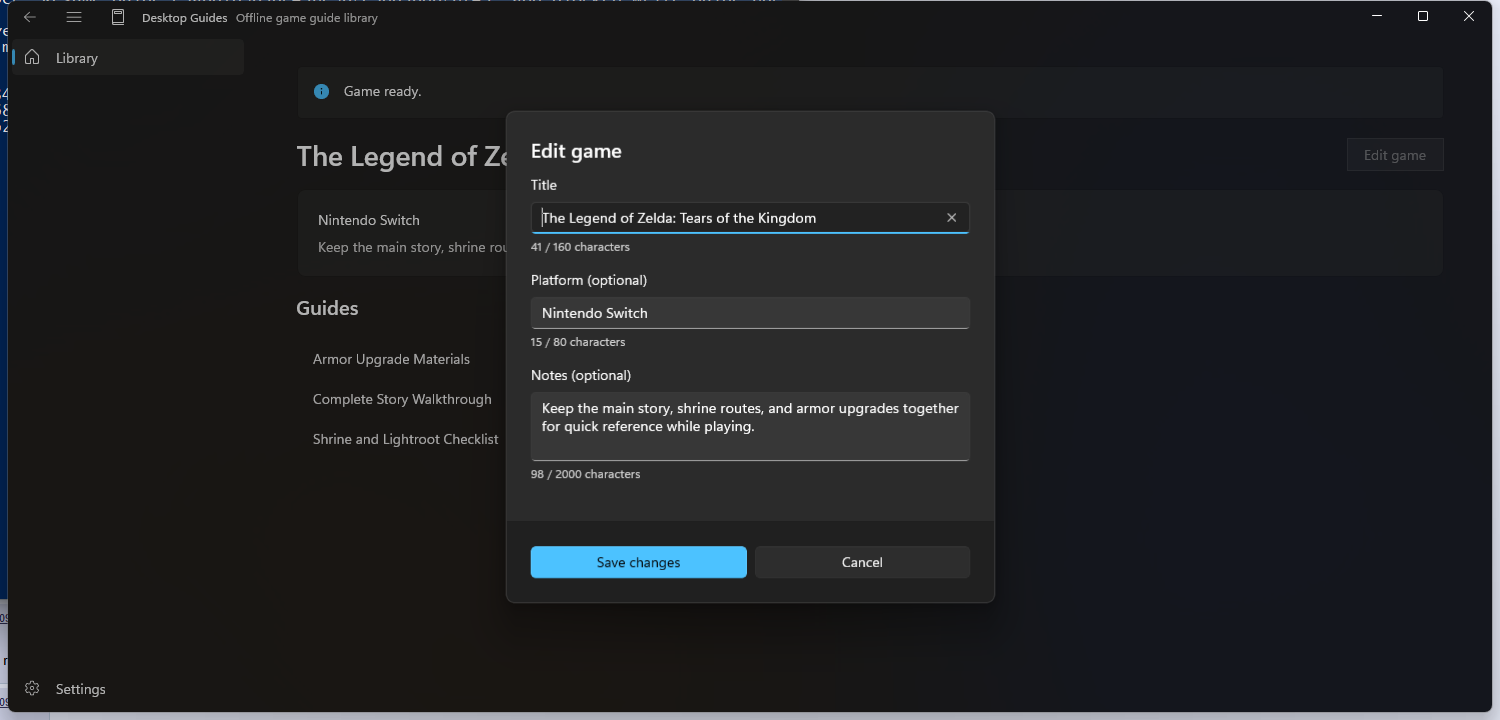
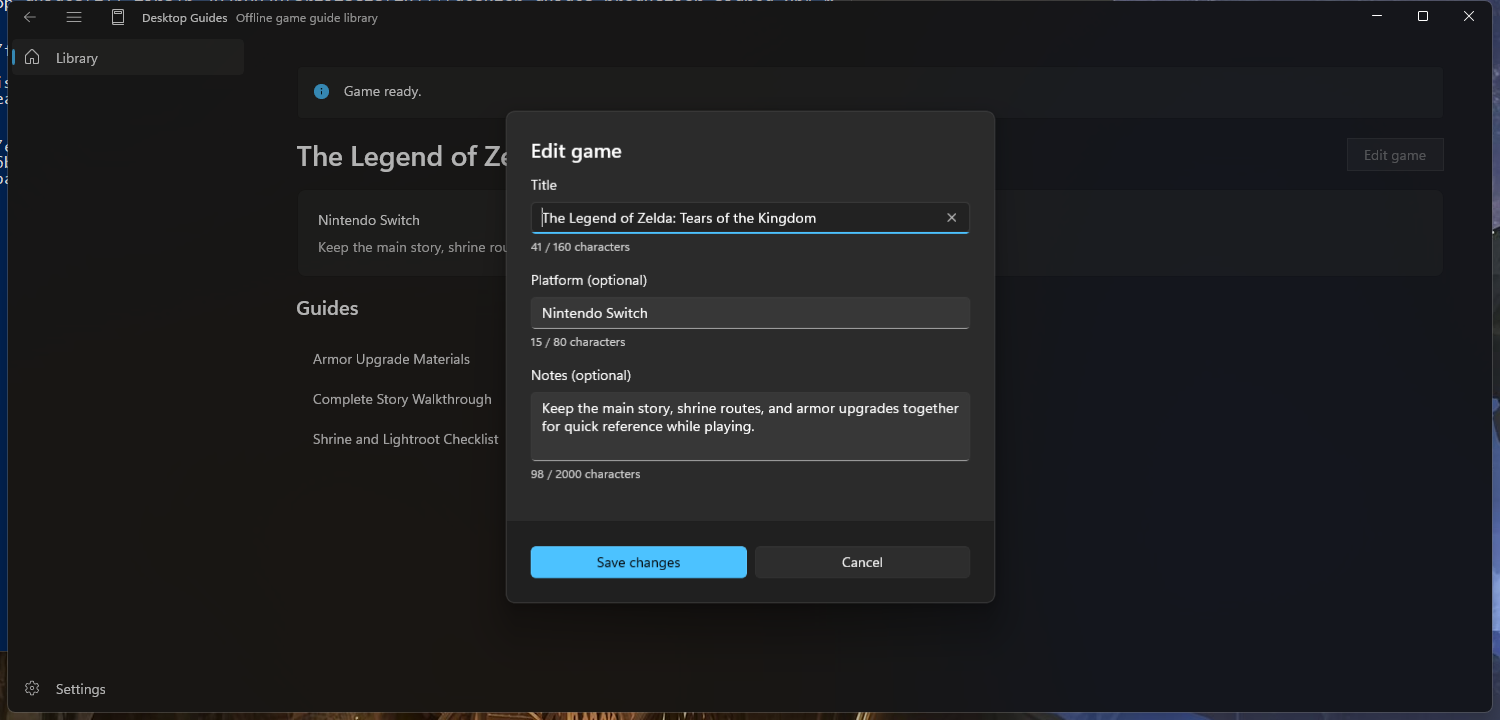
docs(p1): record material checks scoped to app code
- Refresh T11.4 evidence and screenshots from the installed run of eec9782
- Update package hashes, the harness check count, and the Acrylic
  wording in results.md and the design-language plan

Changed region(s): [[0.0, 0.0, 1.0, 1.0]]

diff --git a/docs/p1/results.md b/docs/p1/results.md
@@ -1135,24 +1135,29 @@ harness; the runs below kept every `Personalize` value. With real translucency,
 Thin Acrylic in light theme over a dark window measured 2.4:1 for secondary
 text and 3.0:1 for body text, so Acrylic now uses Base acrylic.
 
-From a snapshot of `fb3a393` on the same host, with transparency
+From a snapshot of `eec9782` on the same host, with transparency
 effects on: locked restores, 73/73 Core tests, 98/98 Infrastructure tests,
 and all nine PowerShell harness checks passed, and Release packages built for
 x64 and ARM64. The x64 package SHA-256 was
[2 lines of base64/hex data omitted]
 the ARM64 package SHA-256 was
[2 lines of base64/hex data omitted]
 The full signed-install regression passed. It ran the system, light, and dark
 design-language modes and six material passes: light and dark × Solid,
 Acrylic, and Mica, plus a switch-and-relaunch check. A strip across the
 pane/content boundary had a channel range of 0 for Solid, so no seam was
 visible. Mica showed the wallpaper tint (light 249/241/235 and dark 35/31/28,
-against Solid 243 and 32). With a dark console window behind the app, Acrylic
-measured 214 in light and 42 in dark, against Solid 243 and 32 (threshold 4).
+against Solid 243 and 32). Acrylic measured 214 in light and 42 in dark. These
+checks cover the app code only: Acrylic fails only if it repeats the Solid
+fill within one level on every channel, which is what one of our layers
+covering the backdrop would show. Mica is not checked this way, because with
+transparency off Windows draws it in the Solid fill color. How Windows tints
+either material is recorded, not asserted.
 Light Acrylic text measured 5.46:1 for secondary text and 12.34:1 for body
-text. The Acrylic edit-game command band showed the in-app acrylic noise
-(channel range 3, Solid 0); the check accepts that noise or the fallback
-color, because live in-app acrylic takes its tint from the content behind it.
+text. A 160×4 strip in the Acrylic edit-game command band showed the in-app
+acrylic noise (channel range 4, Solid 0); the check accepts that noise or the
+fallback color, because live in-app acrylic takes its tint from the content
+behind it. The report records the dialog difference for each theme.
 
 A second interactive run switched the Windows app theme while the app stayed
 open. Library luminance followed from 46 to 209 and back to 46, and with Edit
@@ -1161,8 +1166,9 @@ Mica matched Solid and Acrylic showed its fallback color (249 light, 44 dark);
 the run then restored the setting. After each run, the package, certificate
 trust, and scheduled tasks were gone, and the `Personalize` values, the
 high-contrast flags (`126`), and the active `Custom.theme` were unchanged.
-The reader-toolbar installed smoke passed all eight phases, including focus
-restoration after the page and find dialogs.
+On a snapshot of `fb3a393`, the reader-toolbar installed smoke passed all
+eight phases, including focus restoration after the page and find dialogs; its
+code and harness have not changed since.
 
 High contrast moves to T16.2: enabling it makes Windows rewrite the active
 theme to `Custom.theme`, which this harness cannot restore. Optional colorful

diff --git a/docs/p1/t11-design-language-plan.md b/docs/p1/t11-design-language-plan.md
@@ -160,12 +160,12 @@ dark, plus a Mica-to-Acrylic switch that persisted across relaunch. An 80×8
 strip across the pane/content boundary had a channel range of 0 for Solid, so
 no seam shows. Mica showed the wallpaper tint. Thin Acrylic over a dark window
 left light-theme text at 2.4:1 to 3.0:1, so Acrylic now uses Base acrylic,
-which differed from Solid by 29 (light) and 10 (dark) channel levels against a
-threshold of 4 and kept light text at 5.46:1 or better. The Acrylic dialog's
+which kept light text at 5.46:1 or better. The harness checks only that
+Acrylic does not repeat the Solid fill, since Windows sets its tint. The Acrylic dialog's
 command area showed in-app acrylic noise that the Solid dialog lacks; its
 content area keeps WinUI's native overlay, so no template resource is
 overridden. A live Windows theme switch updated the open window and the Edit
 game dialog, and with transparency off Mica matched Solid and Acrylic showed
-its fallback color. The same source passed 73 Core tests, 98 Infrastructure
-tests, nine PowerShell harness checks, x64 and ARM64 package builds, and the
-linked reader toolbar installed smoke.
+its fallback color. The final source passed 73 Core tests, 98 Infrastructure
+tests, nine PowerShell harness checks, and x64 and ARM64 package builds; the
+unchanged linked reader toolbar passed its installed smoke on `fb3a393`.
